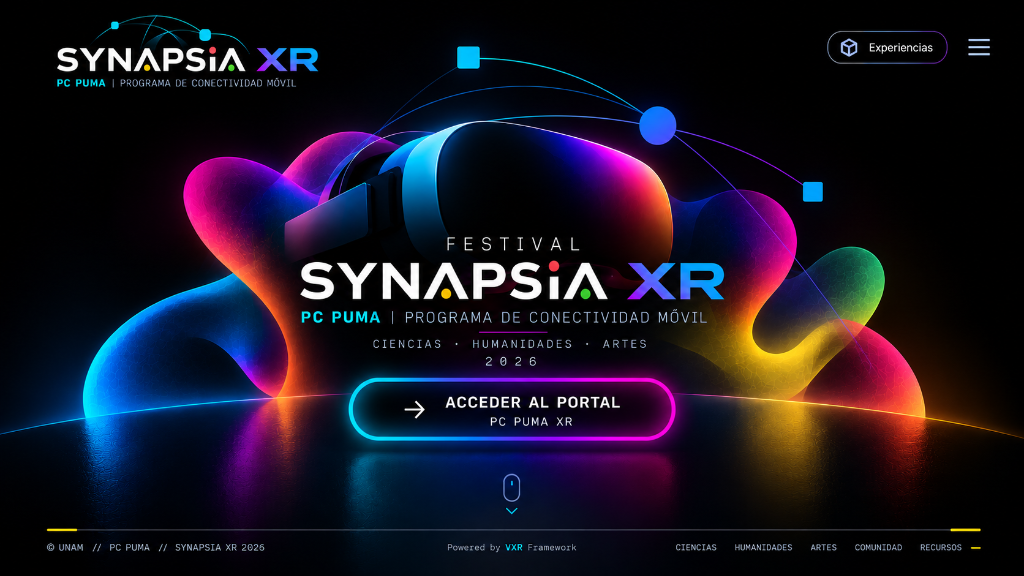
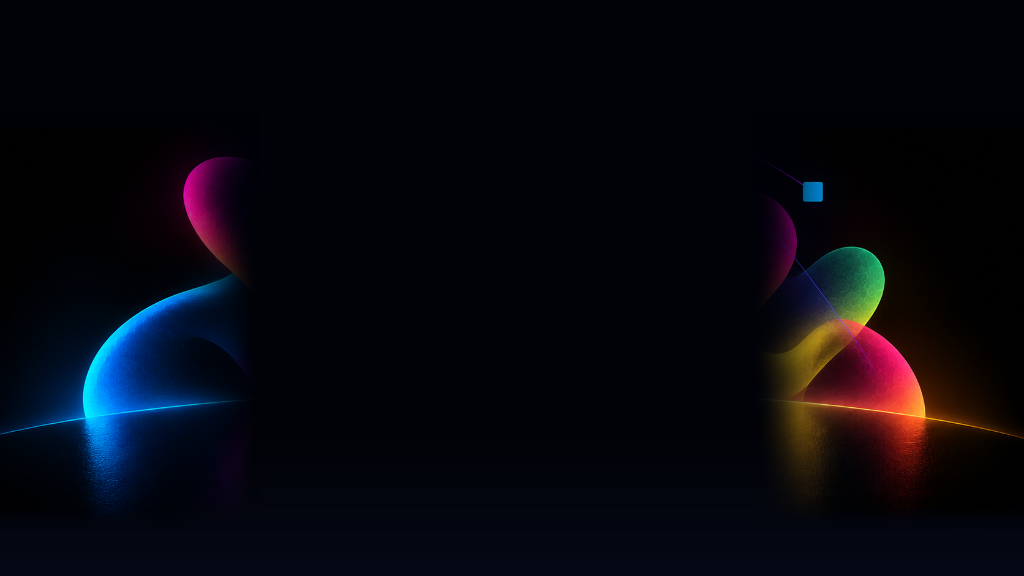
fix: Eliminar DGTIC, corregir fondo hero, ocultar VRButton y limpiar interfaz según mockup

diff --git a/index.html b/index.html
@@ -102,32 +102,22 @@
     <!-- Navegación Superior Estilo Festival Synapsia XR -->
     <header class="synapsia-header" id="main-header">
       <div class="synapsia-brand">
-        <div class="synapsia-logo-symbol">
-          <svg viewBox="0 0 24 24" fill="none" stroke="currentColor" stroke-width="2">
-            <circle cx="12" cy="12" r="3" fill="#00f3ff"/>
-            <line x1="12" y1="2" x2="12" y2="6"/>
-            <line x1="12" y1="18" x2="12" y2="22"/>
-            <line x1="2" y1="12" x2="6" y2="12"/>
-            <line x1="18" y1="12" x2="22" y2="12"/>
-            <circle cx="12" cy="3" r="1.5" fill="#facc15"/>
-            <circle cx="12" cy="21" r="1.5" fill="#22c55e"/>
-            <circle cx="3" cy="12" r="1.5" fill="#ef4444"/>
-            <circle cx="21" cy="12" r="1.5" fill="#ec4899"/>
-          </svg>
-        </div>
-        <div class="synapsia-brand-text">
-          <div class="synapsia-wordmark">
-            <span>S</span>
-            <span class="has-dot dot-yellow">Y</span>
-            <span>N</span>
-            <span class="has-dot dot-red">A</span>
-            <span>P</span>
-            <span>S</span>
-            <span class="has-dot dot-green">I</span>
-            <span>A</span>
-            <span class="gradient-xr">XR</span>
+        <div class="synapsia-brand-row">
+          <img src="assets/synapsia_app_icon.png" alt="Synapsia XR" class="synapsia-brand-icon-img" />
+          <div class="synapsia-brand-text">
+            <div class="synapsia-wordmark">
+              <span>S</span>
+              <span class="has-dot dot-yellow">Y</span>
+              <span>N</span>
+              <span class="has-dot dot-red">A</span>
+              <span>P</span>
+              <span>S</span>
+              <span class="has-dot dot-green">I</span>
+              <span>A</span>
+              <span class="gradient-xr">XR</span>
+            </div>
+            <span class="synapsia-brand-sub">PC PUMA | PROGRAMA DE CONECTIVIDAD MÓVIL</span>
           </div>
-          <span class="synapsia-brand-sub">PORTAL PC PUMA // DGTIC UNAM</span>
         </div>
       </div>
 
@@ -168,23 +158,22 @@
       <div class="hero-ambient-glow"></div>
 
       <div class="hero-stage-content">
-        <!-- Fondo Visual Central con Esfera Sináptica y Nodos Flotantes -->
+        <!-- Nodos Flotantes GSAP en el Fondo -->
         <div class="hero-visual-backdrop" id="hero-backdrop">
-          <img src="assets/hero-synapsia.png" alt="Festival Synapsia XR" class="hero-center-graphic" />
-          <div class="floating-node node-1"></div>
-          <div class="floating-node node-2"></div>
-          <div class="floating-node node-3"></div>
-          <div class="floating-node node-4"></div>
-          <div class="floating-node node-5"></div>
-          <div class="floating-node node-6"></div>
+          <div class="floating-node node-1 node-cyan" style="top: 25%; left: 18%;"></div>
+          <div class="floating-node node-2 node-blue" style="top: 20%; right: 22%;"></div>
+          <div class="floating-node node-3 node-magenta" style="bottom: 30%; left: 14%;"></div>
+          <div class="floating-node node-4 node-yellow" style="bottom: 28%; right: 16%;"></div>
+          <div class="floating-node node-5 node-cyan" style="top: 45%; right: 12%;"></div>
+          <div class="floating-node node-6 node-magenta" style="top: 40%; left: 12%;"></div>
         </div>
 
         <!-- Tipografía e Información Central del Festival -->
         <div class="hero-info-overlay">
           <div class="hero-label-festival">FESTIVAL SYNAPSIA XR</div>
-          <h1 class="hero-title-main">
-            SYNAPSIA <span class="gradient-xr">XR</span>
-          </h1>
+          <div class="hero-brand-logo-wrap">
+            <img src="assets/hero_title_synapsia_xr.png" alt="SYNAPSIA XR" class="hero-title-logo-img" />
+          </div>
           <div class="hero-subtitle-puma">
             <span class="bracket">[</span> PC PUMA | PROGRAMA DE CONECTIVIDAD MÓVIL <span class="bracket">]</span>
           </div>
@@ -200,13 +189,17 @@
           </div>
 
           <!-- Botón de Entrada Principal (Glowing Pill + Reflejo de piso) -->
-          <div class="hero-cta-container">
+          <div class="hero-cta-wrapper">
             <button id="btn-hero-cta" class="hero-cta-pill" type="button">
-              <span id="cta-icon" class="cta-arrow">➔</span>
-              <span id="cta-button-text" class="cta-label">ACCEDER AL PORTAL</span>
-              <span id="cta-button-sub" class="cta-sublabel">// PC PUMA XR</span>
+              <div class="cta-arrow-circle">
+                <span id="cta-icon">➔</span>
+              </div>
+              <div class="cta-text-group">
+                <span id="cta-button-text" class="cta-main-title">ACCEDER AL PORTAL</span>
+                <span id="cta-button-sub" class="cta-sub-title">// PC PUMA XR</span>
+              </div>
             </button>
-            <div class="hero-cta-reflection" aria-hidden="true"></div>
+            <div class="cta-floor-reflection" aria-hidden="true"></div>
           </div>
 
           <!-- Indicador de Scroll con Mouse Animado -->
@@ -221,19 +214,17 @@
 
       <!-- Barra Inferior del Hero con VXR Framework y Créditos -->
       <div class="hero-bottom-bar">
-        <div class="hero-bottom-left">
+        <div class="hbar-left">
           <span class="gold-accent-line"></span>
           <span class="hero-copy-text">© UNAM // PC PUMA // SYNAPSIA XR 2026</span>
         </div>
-        <div class="hero-bottom-center">
+        <div class="hbar-center">
           <a href="https://vickman123.github.io/Framework-XVR/" target="_self" rel="noopener noreferrer" class="vxr-link-badge" title="Explorar Framework VXR Oficial">
-            <span class="vxr-badge-dot"></span>
-            <span>POWERED BY <strong class="vxr-text-highlight">VXR FRAMEWORK</strong></span>
-            <span class="vxr-badge-arrow">↗</span>
+            <img src="assets/powered_by_vxr_badge.png" alt="Powered by VXR Framework" class="vxr-badge-img" />
           </a>
         </div>
-        <div class="hero-bottom-right">
-          <div class="hero-category-pills">
+        <div class="hbar-right">
+          <div class="hbar-categories">
             <span class="bottom-tag">#VR</span>
             <span class="bottom-tag">#WebXR</span>
             <span class="bottom-tag">#UNAM</span>
@@ -522,7 +513,7 @@
     <!-- Pie de Página Institucional y Enlace VXR Framework -->
     <footer class="site-footer">
       <div class="footer-credits">
-        <span>© UNAM - DGTIC // Programa PC PUMA. Plataforma WebXR.</span>
+        <span>© UNAM // Programa PC PUMA. Plataforma WebXR.</span>
       </div>
       <div class="footer-links">
         <a href="https://vickman123.github.io/Framework-XVR/" target="_self" rel="noopener noreferrer" class="vxr-link-badge-footer">
@@ -592,7 +583,7 @@
       </div>
 
       <div class="drawer-footer">
-        <span>FESTIVAL SYNAPSIA XR 2026 // DGTIC UNAM</span>
+        <span>FESTIVAL SYNAPSIA XR 2026 // PC PUMA UNAM</span>
       </div>
     </div>
   </aside>

diff --git a/css/styles.css b/css/styles.css
@@ -63,16 +63,28 @@ html, body {
   left: 0;
   width: 100vw;
   height: 100vh;
-  z-index: 0;
+  z-index: -1;
   pointer-events: none;
-  opacity: 0.85;
-  transition: opacity 0.4s ease;
+  opacity: 0;
+  visibility: hidden;
+  transition: opacity 0.4s ease, visibility 0.4s ease;
 }
 
 #webxr-canvas-container.interactive-mode {
   pointer-events: auto;
-  z-index: 10;
+  z-index: 50;
   opacity: 1;
+  visibility: visible;
+}
+
+/* Ocultar botón oficial VRButton inyectado por Three.js para no tapar el portal */
+#official-vr-button {
+  display: none !important;
+  visibility: hidden !important;
+  opacity: 0 !important;
+  pointer-events: none !important;
+  position: absolute !important;
+  left: -9999px !important;
 }
 
 /* Rejilla cibernética de fondo */
@@ -128,7 +140,8 @@ html, body {
   display: flex;
   flex-direction: column;
   justify-content: space-between;
-  background: #000208;
+  background: #000208 url('../assets/hero-synapsia.png') no-repeat center center;
+  background-size: cover;
   overflow: hidden;
   box-sizing: border-box;
 }
@@ -359,21 +372,54 @@ html, body {
 
 .hero-visual-backdrop {
   position: absolute;
-  top: 50%;
-  left: 50%;
-  transform: translate(-50%, -50%);
-  width: 90%;
-  max-width: 920px;
+  top: 0;
+  left: 0;
+  width: 100%;
+  height: 100%;
   pointer-events: none;
   z-index: 1;
-  opacity: 0.9;
 }
 
-.hero-visual-backdrop img {
+.hero-brand-logo-wrap {
   width: 100%;
+  display: flex;
+  justify-content: center;
+  align-items: center;
+  margin: 0.25rem 0 0.85rem;
+}
+
+.hero-title-logo-img {
+  max-width: 660px;
+  width: 88vw;
   height: auto;
+  display: block;
+  filter: drop-shadow(0 0 25px rgba(0, 240, 255, 0.45)) drop-shadow(0 0 45px rgba(168, 85, 247, 0.35));
+}
+
+.synapsia-brand-row {
+  display: flex;
+  align-items: center;
+  gap: 12px;
+}
+
+.synapsia-brand-icon-img {
+  width: 40px;
+  height: 40px;
+  border-radius: 9px;
   object-fit: contain;
-  filter: drop-shadow(0 0 45px rgba(0, 240, 255, 0.3)) drop-shadow(0 0 65px rgba(236, 72, 153, 0.25));
+  box-shadow: 0 0 16px rgba(0, 240, 255, 0.45);
+}
+
+.vxr-badge-img {
+  height: 24px;
+  width: auto;
+  display: block;
+  filter: drop-shadow(0 0 10px rgba(0, 240, 255, 0.45));
+  transition: transform 0.2s ease;
+}
+
+.vxr-badge-img:hover {
+  transform: scale(1.05);
 }
 
 /* Floating GSAP nodes */

diff --git a/js/xr-scene.js b/js/xr-scene.js
@@ -946,13 +946,15 @@ class XRSceneController {
     btn.style.borderRadius = '30px';
     btn.style.boxShadow = '0 0 20px rgba(213, 155, 45, 0.5)';
     btn.style.cursor = 'pointer';
-    btn.style.letterSpacing = '1.5px';
+    btn.style.display = 'none';
+    btn.style.visibility = 'hidden';
 
     document.body.appendChild(btn);
 
     // Eventos de sesión WebXR
     this.renderer.xr.addEventListener('sessionstart', () => {
       this.isVR = true;
+      this.container.classList.add('interactive-mode');
       document.getElementById('ui-root')?.classList.add('hidden-for-xr');
       document.getElementById('xr-scene-hud')?.classList.add('visible');
       document.getElementById('quest-vr-overlay')?.classList.add('hidden');
@@ -973,6 +975,7 @@ class XRSceneController {
 
     this.renderer.xr.addEventListener('sessionend', () => {
       this.isVR = false;
+      this.container.classList.remove('interactive-mode');
       document.getElementById('ui-root')?.classList.remove('hidden-for-xr');
       document.getElementById('xr-scene-hud')?.classList.remove('visible');
 

diff --git a/js/main.js b/js/main.js
@@ -115,10 +115,10 @@ function initGsapHeroAnimations() {
     y: 20,
     duration: 0.8
   }, '-=0.6')
-  .from('.hero-title-main', {
+  .from('.hero-brand-logo-wrap', {
     opacity: 0,
-    scale: 0.9,
-    filter: 'blur(10px)',
+    scale: 0.88,
+    filter: 'blur(8px)',
     duration: 1.2,
     ease: 'power2.out'
   }, '-=0.5')
@@ -138,13 +138,7 @@ function initGsapHeroAnimations() {
     scale: 0.8,
     duration: 0.8
   }, '-=0.5')
-  .from('.hero-visual-backdrop', {
-    opacity: 0,
-    scale: 0.85,
-    duration: 1.4,
-    ease: 'power2.out'
-  }, '-=1.2')
-  .from('.hero-cta-container', {
+  .from('.hero-cta-wrapper', {
     opacity: 0,
     y: 30,
     scale: 0.95,

diff --git a/README.md b/README.md
@@ -1,6 +1,6 @@
 # SIPNASIA XR // Portal de Experiencias PC PUMA UNAM
 
-Portal interactivo inmersivo desarrollado en **HTML5, CSS3, JavaScript y WebXR (Three.js)** para centralizar el acceso y ejecución de las experiencias virtuales del ecosistema **PC PUMA (DGTIC - UNAM)**.
+Portal interactivo inmersivo desarrollado en **HTML5, CSS3, JavaScript y WebXR (Three.js)** para centralizar el acceso y ejecución de las experiencias virtuales del ecosistema **PC PUMA (UNAM)**.
 
 
 https://vickman123.github.io/Prototipo-Sipnasia/
